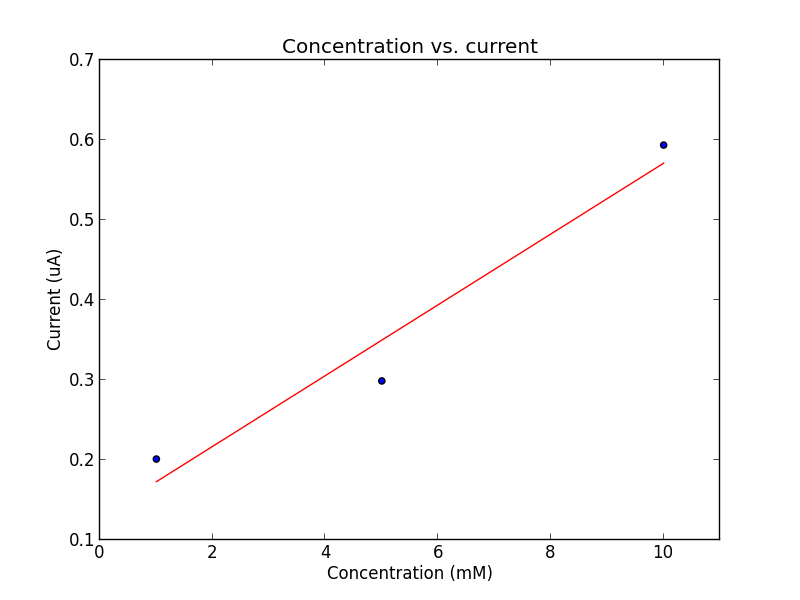
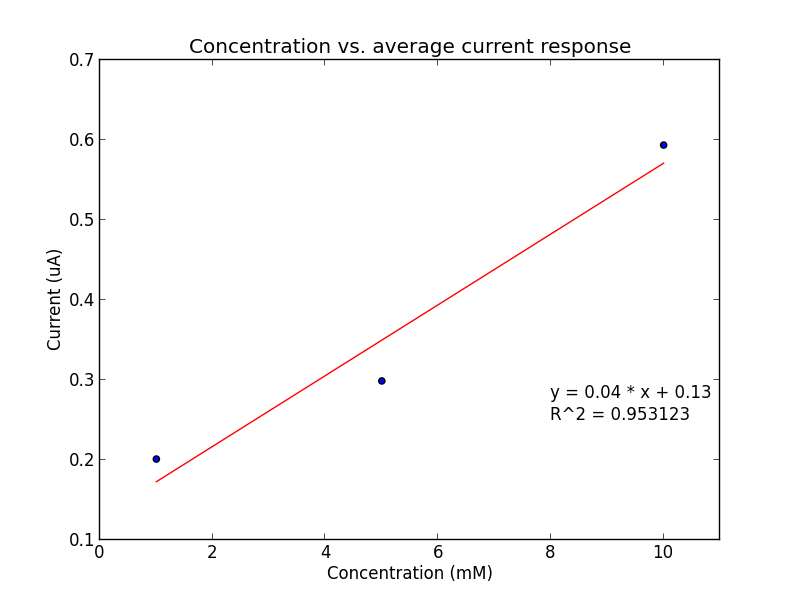
* Added average current response graphing script * Major changes to report

Changed region(s): [[0.2188, 0.06, 0.7812, 0.09], [0.6875, 0.63, 0.875, 0.72]]

diff --git a/report/sections/results.tex b/report/sections/results.tex
@@ -1,15 +1,16 @@
 \section{Results}
+We conducted a wide range of experiments during this study. The first experiments consisted of characterizing some commercial strips to get familiar with the the process and the equipment. Then, we conducted the same experiments with our custom strips. Lastly, we designed and tested our own potentiostat.
 
-Show data from first potentiostat lab (graphs). Explain that we did salenize and platenize. Then talk about how we manufactured wafers and tried to test them. We had trouble getting this to work. Explain why. 
+\subsection{Commercial strips}
+The first step in this project was getting familiar with a commercial potentiostat and commercial electrodes. The glucose sensors were prepared in the manner described in the methodology. After manufacturing the sensors, we tested them with the BASi potentiostat using the amperometry mode with the initial potential at 700 mV, a sampling period of 120 seconds. The figure \ref{fig:basi} shows the results for three experiments conducted with three different glucose concentrations. These experiments show that the current changes when glucose was added to the solution and that the change is proportional to the concentration. This fact is summarized in figure \ref{fig:ci}.
 
-For potentiostat, we used a resistor to test its functionality (gui of graphs). 
 
-
-\begin{figure}[h]
+\begin{figure}[h] 
 \begin{center}
 \includegraphics[width=3.5in]{../figures/basi.png}
 \end{center}
 \caption{Current vs. time plot for three different concentrations of glucose. These tests were done using a BASi potentiostat and commercial electrode strips. The arrow indicate responses to glucose being added to the solution.}
+\label{fig:basi}
 \end{figure}
 
 \begin{figure}[h]
@@ -17,6 +18,7 @@ For potentiostat, we used a resistor to test its functionality (gui of graphs).
 \includegraphics[width=3.5in]{../figures/CI.png}
 \end{center}
 \caption{Glucose concentration vs. current plot for three different concentrations of glucose. These tests were done using a BASi potentiostat and commercial electrode strips. Each data point is an average of currents after glucose was introduced.}
+\label{fig:ci}
 \end{figure}
 
 \begin{figure}[h]
@@ -25,12 +27,107 @@ For potentiostat, we used a resistor to test its functionality (gui of graphs).
 \end{center}
 \caption{Picture of our system on a breadboard. The system can run off a 9V battery and communicates with a PC via XBee radio.}
 \end{figure}
+
+\subsection{Custom strips}
+After collecting data with commercial strips, we proceeded to manufacture our own electrodes at TRC. We used the process described in the methodology and ended up with four electrodes. After manufacturing, we proceeded to immobilize the enzyme on the strips. We deviated from the procedure described in the methodology. The electrodes were not platinized or salinized before the functionalization process. When the receiving mixture was deposited on the active area it spread out of the active area all over the electrodes instead of staying in place. We deposited the receiving mixture on the commercial strips and the hydrogel stayed on the active area and did not spread. After all the strips were exposed to UV, each had gel on the active area and also had some visible glucose oxidase chunks that did not dissolve in the receiving mixture. 
+
+Once the custom strips were ready, we tested them with the commercial potentiostat using the same settings as when we were testing the commercial ones. We were not getting any response. Even the commercial strips with the receiving mixture from the same batch were not giving us the proper response. After conducting multiple experiments, we decided to strip the wafers of the hydrogel and start over.
+
+We stripped the hydrogel from the electrodes using isopropenol and salinized them. Then, we platinized all four electrodes at 700 mV for 60 seconds each and followed the rest of the procedure described in the methodology. After testing all the strips at various glucose concentrations, we did not see a response. Our best guess to why we were not getting correct results is that the isopropenol stripped the resist that was covering the wires and this created shorts which bypassed the active area. Due to these problems we were not able to characterize our sensors.
  
+\subsection{Potentiostat implementation}
+Designing the potentiostat involved looking at existing design, building the system, unit testing various functions of the system, and finally fine tunning and function testing the whole system.
+
+\subsubsection{High level design}
+The system consists of a  Atmega 644a microcontroller, running at 16 MHz, that is connected to a drive circuit and a measurement circuit. Data communication between the PC and the potentiostat is achieved through XBee radios operating in pass through mode. The drive circuitry is a 10 bit digital to analog converter (DAC) MAX5354 and an operational amplifier (opamp).  The schematic of the microcontroller based potentiostat is shown in the figure \ref{fig:pot_schem}. The list of components and the description is provided in figure \ref{fig:parts}.
+
+\begin{figure} 
+\begin{center}
+\includegraphics[width=3.5in]{../figures/potentiostat_schematic.png}
+\end{center}
+\caption{Schematic of potentiostat system design in Cadence Allegro.}
+\label{fig:pot_schem}
+\end{figure}
+
+
+\begin{figure}
+\begin{center}
+\tiny
+\begin{tabular}{l l l}
+Part Reference & Part Number & Description \\
+\hline
+U4 & MAX5354 & 10 bit DAC \\
+U5 & Atmega 644a &Microcontroller \\
+U7 & LD1117 & 3.3 LDO voltage regulator \\
+U9 & NKA0312SC & +/-12V dual voltage regulator \\
+U10 & LM148 & Quad 4 Opam package \\
+U11 & Xbee 802.15.4 & Xbee wire Antenna  \\
+U12 & ECS-2200X & 16 Mhz crystal oscillator \\
+c1,c2,c3,c4 & &68pf decoupling capacitors \\
+R2,R3,R5 & & 10K biasing resistances \\
+R4 & & 39K feedback resistance \\
+R6 & & Pot to set reference voltage for DAC \\
+SW3 & PVA1 EE H4  & Push Button switch DPST \\
+SW2 & SPDT &  SPDT Mini Power Switch 
+\end{tabular}
+\normalsize
+\end{center}
+\caption{Parts list}
+\label{fig:parts}
+\end{figure}
+
+\subsubsection{Drive and measurement circuit}
+The drive and measurement circuitry consists of a DAC and an opamp circuit which is shown in \ref{fig:opamps}. The opamp circuit provides the constant voltage to the reference electrode (0.7 mV).   Input voltage to opamps A1 and A2 is set through the DAC. The input voltage is 1.2 V and through R1 and R2 it is converted to the 0.7 mV which is the input to the reference electrode. The current generated due to electrochemical reaction between the working and the reference electrode is converted to the equivalent voltage by the opamp A3 and the feedback resistor R3. The current between the working and counter electrodes is indirectly measured by the leftmost opamp. In our design the opamps' positive and negative rails are supplied from a +/- 12 V dual output voltage regulator. Its output voltage is proportional to the current on its negative input port. This voltage is fed to one of the analog pins on the microcontroller. It is converted to equivalent digital value by the microcontroller with the on-chip 10 bit analog to digital converter (ADC). This digital value is written to the UART and is transmitted by the XBee radio to a PC.
+
+
+\begin{figure} 
+\begin{center}
+\includegraphics[width=3.5in]{../figures/opamps.png}
+\end{center}
+\caption{Opam circuits.}
+\label{fig:opamps}
+\end{figure}
+
+
+\subsubsection{Sensitivity testing}
+As shown in figure \ref{fig:sys_test}, we used resistance R4 instead of the glucose sensor to find the sensitivity and operating range of the potentiostat. To help fine tune the circuit, we used a simulator to find the optimal values for R4 and R3. In figure \ref{fig:sim} you can see the opamp circuit being simulated.
+
+\begin{figure} 
+\begin{center}
+\includegraphics[width=3.5in]{../figures/circuit_simulator.png}
+\end{center}
+\caption{Simulation}
+\label{fig:sim}
+\end{figure}
+
+Through simulation and experimentation we found the sensitivity of the potentiostat. Our potentiostat can measure the current in the range of 0.1uA to 70uA. Screen shots of low, mid and upper range tests can be seen in figures \ref{fig:sys_test_low}, \ref{fig:sys_test_mid}, and \ref{fig:sys_test_up}. The PC software  shown in the screen shot was developed in Python and uses pySerial for serial port communication and wxPython for the gui.
+
+\begin{figure} 
+\begin{center}
+\includegraphics[width=3.5in]{../figures/system_testing.png}
+\end{center}
+\caption{System testing circuit.}
+\label{fig:sys_test}
+\end{figure}
+
+%\small
+\begin{center}
+\begin{tabular}{l l l}
+R4 & R3 & Current \\
+\hline
+10K$\Omega$ & 39K$\Omega$ & 70$\mu$A \\
+1M$\Omega$ & 680K$\Omega$ & 8$\mu$A \\
+6.8M$\Omega$ & 1M$\Omega$ & 0.1$\mu$A \\
+\end{tabular}
+\end{center}
+%\normalsize
+
 \begin{figure}[h]
 \begin{center}
 \includegraphics[width=3.5in]{../figures/1Mohm_0,1uA_6,8Mohm.png}
 \end{center}
 \caption{Low range}
+\label{fig:sys_test_low}
 \end{figure}
 
 \begin{figure}[h]
@@ -38,6 +135,7 @@ For potentiostat, we used a resistor to test its functionality (gui of graphs).
 \includegraphics[width=3.5in]{../figures/1Mohm_8uA_680KOhm.png}
 \end{center}
 \caption{Mid range}
+\label{fig:sys_test_mid}
 \end{figure}
 
 \begin{figure}[h]
@@ -45,4 +143,16 @@ For potentiostat, we used a resistor to test its functionality (gui of graphs).
 \includegraphics[width=3.5in]{../figures/10KOhm_70uA_39KOhm.png}
 \end{center}
 \caption{Upper range}
+\label{fig:sys_test_up}
+\end{figure}
+
+\subsubsection{Board layout and power usage}
+After breadboarding the system, using the Alegro PCB editor we designed a printed circuit board version of the system. We did not have time to fabricate the board. The system is fairly low power. Without the XBee radio, the system consumes 80 mA at 4.5 V and with the XBee radio 150 mA.
+
+\begin{figure}[h]
+\begin{center}
+\includegraphics[width=3.5in]{../figures/layout.png}
+\end{center}
+\caption{Board layout}
+\label{fig:sys_test_up}
 \end{figure}

diff --git a/report/sections/background.tex b/report/sections/background.tex
@@ -1,11 +1,11 @@
 \section{Background}
-A biosensor is a self contained integrated device incorporating a biological material capable of producing an electrical signal. There are many different types of sensors and chemical sensing techniques. Some chemical sensing techniques are potentiometric, amperometric, FET based, conductometric, optical, piezoeletric and thermal. Glucose sensors are one such sensor, and are an important part of medicine due to the rise of diabetes and work on improving them has been a going on for a while. \cite{Cramp:1967} Measuring blood sugar levels is an important part of treating this disease and over the years researchers have come up with a wide range of invasive and non-invasive techniques. \cite{Oliver:2009} For the purpose of this project, we will focus on the amperometric approach using a three-electrode system coupled with the enzyme Glucose Oxidaze which is a very common and non-invasive technique. \cite{Cui:2001} \cite{Jui-Lin:2011} 
+A biosensor is a self contained integrated device incorporating a biological material capable of producing an electrical signal. There are many different types of sensors and chemical sensing techniques. Some chemical sensing techniques are potentiometric, amperometric, FET based, conductometric, optical, piezoeletric and thermal. Glucose sensors are one such sensor, and are an important part of medicine due to the rise of diabetes and work on improving them has been a going on for a while. \cite{Cramp:1967} Measuring blood sugar levels is an important part of treating this disease and over the years researchers have come up with a wide range of invasive and non-invasive techniques. \cite{Oliver:2009} For the purpose of this project, we will focus on the amperometric approach using a three-electrode system coupled with the enzyme glucose oxidase which is a very common and non-invasive technique. \cite{Cui:2001} \cite{Jui-Lin:2011} 
 
 \subsection{Basic sensor design}
 Chemical sensors and specifically glucose sensors can be manufactured out of a myriad of materials and in different physical layouts. Glucose sensors can be broken into two major categories: invasive and non invasive. We will concentrate on non invasive sensors. Non invasive glucose sensors have gone through several stages of development. \cite{Wang:2012} One of the simpler designs consists of planar layers of substrate and metal with an immobilized enzyme sitting on top.
 
 \subsection{Chemistry}
-In order to understand how a Glucose Oxidaze based sensor works, we have to understand the chemistry going on. When glucose and glucose oxidaze are combined in the presence of water and oxygen, gluconic acid and hydrogen peroxide forms. After this initial reaction, hydrogen peroxide oxidizes into oxygen, hydrogen and electrons. These chemical reactions are described in equations \ref{eq:glux} and \ref{eq:perox}. The $ H_{2}O_{2}$ produced during enzymatic reaction can be calculated from the current produced during oxidation.
+In order to understand how a glucose oxidase based sensor works, we have to understand the chemistry going on. When glucose and glucose oxidase are combined in the presence of water and oxygen, gluconic acid and hydrogen peroxide forms. After this initial reaction, hydrogen peroxide oxidizes into oxygen, hydrogen and electrons. These chemical reactions are described in equations \ref{eq:glux} and \ref{eq:perox}. The $ H_{2}O_{2}$ produced during enzymatic reaction can be calculated from the current produced during oxidation.
 
 \begin{equation} \label{eq:glux}
 \text{glucose} + H_2O + O_2 \xrightarrow{GOx}  \text{gluconic acid} + H_2O_2
@@ -16,11 +16,12 @@ H_2O_2 \rightarrow O_2 + 2H^+ + 2e^-
 \end{equation}
 
 Design of the sensor has an effect of the speed of this reaction and the durability of the sensor. Using electrodes made of manganese dioxide, silver or platinum will help hydrogen peroxide oxidation catalyse. \cite{Raba:1995}
-Another design technique is immobilizing the oxidase enzymes. Immobilizing an enzyme attaches it to an inert, insoluble material. This makes the sensor tougher, resistant to pH or temperature changes. The enzymes are held in place during the chemical reaction. Stability of the reaction and consistency between reactions is ensured. It also increases shelf life of sensor. Many different techniques for immobalization exist. Adsorption, covalent binding, affinity immobilization, entrapment along with many different organic and inorganic materials \cite{Datta:2013} In our project we use silenization and derivatization for covalent bonding to immobilize oxidase. \cite{Urban:1991} Platenizing the electrodes is another technique. It increases the active surface area and increases catalytic activity. Another way to increase surface area is making the active area with a diamond pattern. Increasing the surface area helps convert $ H_{2}O_{2}$ to an electrical current faster. \cite{Zhang:1996}
+Another design technique is immobilizing the oxidase enzymes. Immobilizing an enzyme attaches it to an inert, insoluble material. This makes the sensor tougher and resistant to pH or temperature changes. It also increases shelf life of sensor. The enzymes are held in place during the chemical reaction. Stability of the reaction and consistency between reactions is ensured. Many different techniques for immobilization exist such as adsorption, covalent binding, affinity immobilization, entrapment along with many different organic and inorganic materials that promote immobilization \cite{Datta:2013} In our project we use silenization and derivatization for covalent bonding to immobilize oxidase. \cite{Urban:1991} Platinizing the electrodes is another technique. It increases the active surface area and increases catalytic activity. Another way to increase surface area is making the active area with a diamond pattern. Increasing the surface area helps convert $ H_{2}O_{2}$ to an electrical current faster. \cite{Zhang:1996}
 
 \subsection{Potentiostat}
-Potentiostat is an instrument that can very accurately measure current between electrodes created by a potential difference between those electrodes. A typical potentiostat will consist of three electrodes: working, reference and counter. The current flows from the working to the counter electrode. The refence electrode provides a constant electrochemical potential. Having a separate reference electrode helps make current measurements at the working electrode more accurate. The basic design of a potentiostat consists of a controlled voltage supply, a voltmeter and a current to voltage converter. \cite{Penn:2010} Potentiostats can range from expensive benchtop lab equipment to inexpensive portable devices. \cite{Row:2011} In the application of glucose sensing, the potentiostat is used in the amperometry mode to produce a reference voltage. The current is measured at the working electrode and and is a result of the previously described chemical reaction. The current is used to determine glucose concentration by this equation \ref{eq:gluc}.
+Potentiostat is an instrument that can very accurately measure current between electrodes created by a potential difference between those electrodes. A typical potentiostat will consist of three electrodes: working, reference, and counter. The current flows from the working to the counter electrode. The reference electrode provides a constant electrochemical potential. Having a separate reference electrode helps make current measurements at the working electrode more accurate. The basic design of a potentiostat consists of a controlled voltage supply, a voltmeter and a current to voltage converter. \cite{Penn:2010} Potentiostats can range from expensive bench top lab equipment to inexpensive portable devices. \cite{Row:2011}\cite{Gopinath:2006} In the application of glucose sensing, the potentiostat is used in the amperometry mode to produce a reference voltage. The current is measured at the working electrode and and is a result of the previously described chemical reaction.  This current is directly proportional to the glucose concentration
 
-\begin{equation} \label{eq:gluc}
-glucose concentration equation
-\end{equation}
+%The current is used to determine glucose concentration by this equation \ref{eq:gluc}.
+%\begin{equation} \label{eq:gluc}
+%glucose concentration equation
+%\end{equation}

diff --git a/report/sections/methodology.tex b/report/sections/methodology.tex
@@ -1,19 +1,28 @@
 \section{Methodology}
 
-To thoroughly understand the tool we are building, we will research various potentiometer designs.
-The lab work will be divided into the following areas: chemical, electrical and software. Manufacturing
-and profiling the sensor will constitute the chemical component. Circuit simulation, circuit testing,
-and system design/implementation will constitute the hardware piece. Lastly, PC user interface and
-processing code will make up the software.
+\subsection{Preliminary research}
+To thoroughly understand the tool we are building, we will research various potentiometer designs. The lab work will be divided into the following areas: chemical, electrical, and software. Manufacturing and profiling the sensor will constitute the chemical component. Circuit simulation, circuit testing, and system design/implementation will constitute the hardware piece. Lastly, PC user interface and processing code will make up the software.
 
-In order to contribute towards research, we plan to do a thorough literature review of existing glucose
-sensing techniques. This will include sensor manufacturing techniques and materials. Our design
-contribution will consist of schematics, system specification, and documentation of our design. We will
-also include data about profiling our glucose sensors.
+In order to contribute towards research, we plan to do a thorough literature review of existing glucose sensing techniques. This will include sensor manufacturing techniques and materials. Our design contribution will consist of schematics, system specification, and documentation of our design. We will also include data about profiling our glucose sensors.
 
-\begin{figure}[h]
+\subsection{Sensor fabrication}
+Sensor manufacturing process involves using lithography to create desired patterns of titanium on a silicon wafer. The wafer was prepared by depositing 3000 angstroms of SiO2 and then depositing 500 angstroms of Ti. After the metal is deposited, the wafer is slice into chucks of 2cm by 1cm. The sensor has 3 platinum electrodes: working, counter and, reference. The reference electrode is used to establish constant potential in electrochemical cell. The working electrode is where the electron transfer of interest occurs. Counter electrode is the one which completes the circuit. The working electrode forms a shape of a "lollipop" and contains the active area. A coat of photoresist is then applied to the wafer. The wafer is then exposed to UV with the first mask on top, developed, and then etched. A second layer of resist is applied and developed to help protect the wires and create the diamond pattern on the active area. Figure \ref{fig:stencils} shows the two stencils used for the masks during the UV exposure process. 
+
+After a test strip is made, the strip has to be platinized and enzymes have to be deposited on the active area. Platinization is done by placing the wafer in hexachloroplatinic acid, connecting a platinum wire to the working electrode and applying a negative voltage to the wafer for a period of time. After platinization is done, the wafer is dried and is ready for enzyme immobilization. A receiving mixture of 2-Hydroxyethylmethacrylate (HEMA), Tetraethylenglycol diacrylate (TEGDA), and Polyethylenglycol methacrylate (PEGMA) is created to which a solution of glucose oxidase, ethylene glycol and DI water is added. A photo initiator, 2-dimethoxy- 2-phenylacetophenone (DMPA), is then added to the receiving mixture. This final mixture is deposited unto the active area of the wafer and the wafer is baked in a UV oven. 
+
+\begin{figure} 
 \begin{center}
 \includegraphics[width=3.5in]{../figures/stencils.png}
 \end{center}
 \caption{Stencils for lithography. {\bf A} is for the protective layer of resist. {\bf B} is the metal layer stencil. {\bf C} is a closeup of the diamond pattern on the active area.}
+\label{fig:stencils}
 \end{figure}
+
+
+\subsection{Sensor characterization}
+To characterize a sensor, it has to be subjected to a wide range of glucose concentrations and its current response recorder. We used commercial and custom made sensors with a commercial potentiostat in the amperometry mode. We tested three different concentrations: 1 mM, 5 mM and 10 mM.
+
+\subsection{Potentiostat specification}
+There are several characteristics that are desirable in this implementation. The device must be cheap, portable, and have a wide operating range. The system must also be able to transmit data to a PC where it can be visualized in real time. Before building the actual circuit, a simulation of the circuit has to be done to understand how the drive and measurement circuit works.
+
+

diff --git a/report/sections/introduction.tex b/report/sections/introduction.tex
@@ -1,23 +1,20 @@
 \section{Introduction}
 The motivation behind this project is to get familiar with MEMS sensors. Specifically, how to
 manufacture them, interface them to embedded systems, profile and characterize them. The
-construction of a portable glucose sensor is a good fit for this task. The construction of this system
+construction of a portable glucose sensor and a potentiostat is a good fit for this task. The construction of this system
 incurs low cost per unit and cross cuts across the disciplines of chemistry and computer engineering.
 
 There are major challenges presented in this project. Manufacturing the sensor is a laborious process
-with many steps and many places where things could go wrong. Also, our sensor will not be ready for
-profiling until the end of the semester, so we will have to make some assumptions about how we tune
-our amplification circuitry for certain current and voltage ranges. Profiling the sensor will take time
-and we will be working with unfamiliar lab equipment. In addition to hardware, we will need to write
-desktop and embedded software. Finally, debugging the pieces of the system and then integrating the
-various modules will be a challenge.
+with many steps and many places where things could go wrong. For instance, our sensor was not ready for
+profiling until the end of the semester, so we had to make some assumptions about how we to tune
+our amplification circuitry for certain current and voltage ranges. Manufacturing and profiling the sensors took a lot of time
+and we were working with unfamiliar lab equipment. When time came to profile our custom sensors, our sensors did not work. In addition to manufacturing the sensors and building an embedded, we wrote
+desktop and embedded software. Finally, there were some challenges in debugging the pieces of the system and then integrating the
+various modules.
 
-Our approach to building a glucose sensor is to use a potentiostat in voltammetry mode, so that we can
+Our approach was to building a glucose sensor and use a potentiostat in amperometry mode, so that we could
 measure concentration of a glucose solution by the amount of current flowing between two electrodes.
-The current measurements will be streamed to a PC via an XBee radio, where the data will be post
-processed and displayed in a user friendly graph format.
+The current measurements was streamed to a PC via an XBee radio, where the data is post
+processed and displayed in a user friendly graph format. The expected result of this project was that our system is robust, low power, user friendly and able to detect at least 3 different concentrations of glucose.
 
-The expected result is that our system will be robust, low power, user friendly and that we will be able
-to detect at least 3 different concentrations of glucose.
-
-\cite{Gopinath:2006}
+The report is laid out in several sections. First, we present some background material about the theory behind glucose sensors and potentiostats. Second, we present our methodology about approach and procedures. Finally, we present the results of our experiments and the conclusion.

diff --git a/report/sections/conclusion.tex b/report/sections/conclusion.tex
@@ -1,4 +1,9 @@
 \section{Conclusion}
 
-An inexpensive home made potentiostat performs as well as an expensive lab based one. 
-The potentiostat implementation is  much user friendly. Offloading all computations from microcontoller to desktop is much simpler and it facilitates taking more measurement per time. Providing constant voltage to reference electrode also gave us the same result.
+This project describes a detailed implementation of an inexpensive, and portable potentiostat unit and the process of manufacturing and testing of glucose sensors. Unfortunately, it is not possible to directly compare this system with a commercial one since we were not able to characterize our own sensors and did not have time to test commercial ones. We would like to make the observation that the custom strip could be redesigned with a divot on the active area to help keep the hydrogel from spreading all over the strip.
+
+However, the system presented can measure the electrochemical currents between the rages of 0.1uA to 70uA and is suitable to a wide variety of chemical detection applications. The system is also low power, field portable and can be used for remote monitoring in real time. We also provide a schematic and footprint, so it is ready to be mass produced. 
+
+The system is very robust and the PC software we developed to interface with the system is user friendly. The output voltage ranges (potential) can be easily altered by changing the feedback resistance of the opamp. Thus, the design's gain is not limited and any reaction that has the electron transfer process is detectable with this system. Further, a digital potentiometer or a bank of resistors with a multi-pole switch in place of the feedback resistor can make gain adjustment programmatic and even automatic. Given more time, we would like to have fabricated a PCB version of our system.
+
+Continuous glucose monitoring can be applied to variety of situations including management of diabetes as well as treatment of trauma patients and others with temporarily elevated glucose level.  Furthermore, this study confirms previous findings in potentiostat design.

diff --git a/data/plotGI.py b/data/plotGI.py
@@ -38,7 +38,8 @@ print ten_m_current
 x = numpy.array([1, 5, 10])
 A = numpy.array([x, numpy.ones(3)])
 y = numpy.array([one_m_current, five_m_current, ten_m_current])
-w = numpy.linalg.lstsq(A.T,y)[0]
+w,r = numpy.linalg.lstsq(A.T,y)[:2]
+r2 = 1 - r / (y.size * y.var())
 
 line = w[0]*x+w[1] # regression line
 
@@ -47,22 +48,13 @@ array = analyze("Group1B\\1mMinclear_DCPA.dat", 0x3EE)
 plt.scatter(x, y, marker="o")
 plt.plot(x, line, "r-")
 
+text = "y = %.2f * x + %.2f\nR^2 = %f" % (w[0], w[1], r2)
+plt.text(8, 0.25, text, ha='left')
 plt.xlim((0,11))
 plt.xlabel("Concentration (mM)")
 plt.ylabel("Current (uA)")
-plt.title("Concentration vs. current")
+plt.title("Concentration vs. average current response")
 
-"""
-plt.annotate('', xy=(3.6E7, 0.6), xytext=(3.7E7, 0.7),
-            arrowprops=dict(facecolor='black', shrink=0.05, width=0.5, color="r"),
-            )
-plt.annotate('', xy=(4E7, 0.37), xytext=(4.1E7, 0.47),
-            arrowprops=dict(facecolor='black', shrink=0.05, width=0.5, color="g"),
-            )
-plt.annotate('', xy=(3.9E7, 0.23), xytext=(4.1E7, 0.1),
-            arrowprops=dict(facecolor='black', shrink=0.05, width=0.5, color="b"),
-            )
-"""
 
 plt.savefig("CI.png")
 plt.show()
